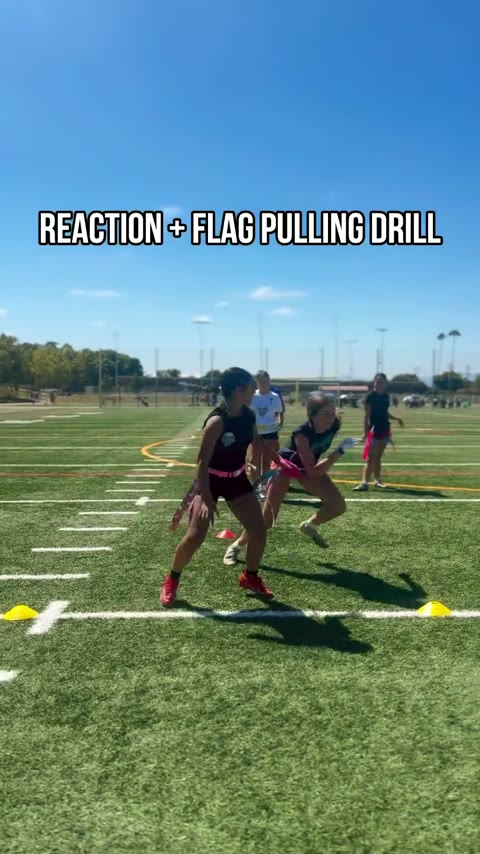
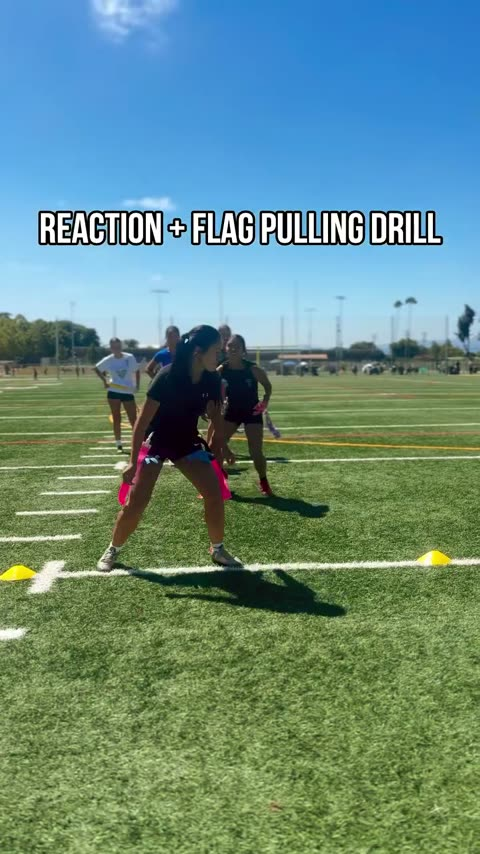
Fiche Flag pull : 4 images des meilleurs plans + note corrigée sur le contact du fanion
Les 3 images venaient du plan 8 (contre-jour, échelle moyenne) ; remplacées par 4 images
prises dans les plans 6, 7 et 3 (le plan clé où la main va au fanion).
La note affirmait « le plan coupe à l'arrivée de la main » : c'est faux, le zoom montre le
contact maintenu ~0,7 s avec le fanion tiré sous tension. Ce qui est vrai : le fanion ne se
détache jamais à l'image. La note dit maintenant exactement cela.
Bouton vidéo recalé sur le plan clé (4,8 s au lieu de 17,2 s).

diff --git a/seance-mardi.html b/seance-mardi.html
@@ -2158,26 +2158,33 @@
 
           <p class="ex-goal"><b>Objectif&nbsp;:</b> fermer l'espace <b>avec les pieds</b>, rester bas, et finir le flag sans se jeter ni s'arrêter.</p>
 
-          <div class="frames three">
+          <div class="frames">
                 <figure class="frame">
-                  <img src="thumbs/DdFXgBFvyGk_1.jpg" alt="Flag pull : position d'attente basse du défenseur, l'attaquant déclenche">
+                  <img src="thumbs/DdFXgBFvyGk_1.jpg" alt="Flag pull : position d'attente basse et large du défenseur">
                   <figcaption>
                     <b>Réaction</b>
-                    <span>Position d'attente basse et large. On réagit au premier pas de l'attaquant.</span>
+                    <span>Base large, hanches basses : on attend le premier pas de l'attaquant.</span>
                   </figcaption>
                 </figure>
                 <figure class="frame">
-                  <img src="thumbs/DdFXgBFvyGk_2.jpg" alt="Flag pull : fermeture de l'angle en fente latérale basse">
+                  <img src="thumbs/DdFXgBFvyGk_2.jpg" alt="Flag pull : fermeture de l'angle, bras tendu vers la hanche">
                   <figcaption>
                     <b>Fermeture de l'angle</b>
-                    <span>Fente latérale : le corps se place sur la trajectoire, bras encore replié.</span>
+                    <span>Le corps se place sur la trajectoire, le bras part vers la hanche.</span>
                   </figcaption>
                 </figure>
                 <figure class="frame">
-                  <img src="thumbs/DdFXgBFvyGk_3.jpg" alt="Flag pull : approche basse, bras tendu vers le fanion">
+                  <img src="thumbs/DdFXgBFvyGk_3.jpg" alt="Flag pull : approche basse, gant tendu vers le fanion jaune">
                   <figcaption>
                     <b>Main vers le flag</b>
-                    <span>Approche basse, bras tendu vers le fanion — pas vers le corps.</span>
+                    <span>Approche basse, gant tendu vers le fanion jaune qui pend à la hanche.</span>
+                  </figcaption>
+                </figure>
+                <figure class="frame">
+                  <img src="thumbs/DdFXgBFvyGk_4.jpg" alt="Flag pull : le gant arrive sur le fanion, tiré sous tension">
+                  <figcaption>
+                    <b>Gant sur le flag</b>
+                    <span>Le gant arrive sur le fanion : il est tiré sous tension, on ne s'arrête pas.</span>
                   </figcaption>
                 </figure>
           </div>
@@ -2191,11 +2198,11 @@
             </ul>
           </div>
 
-          <p class="note">Dans la vidéo, le plan <b>coupe à l'arrivée de la main</b> : on ne voit jamais le fanion se détacher. La finition du pull est donc à travailler à part.</p>
+          <p class="note">Ce que la vidéo montre&nbsp;: le gant qui part vers le fanion, <b>puis le contact</b> — le fanion est tiré sous tension pendant environ 0,7&nbsp;s. Ce qu'elle ne montre pas&nbsp;: <b>le fanion ne se détache jamais à l'image</b>. La finition du pull est donc à travailler à part.</p>
 
           <button class="clip" type="button" data-clip="def">
             <svg width="9" height="10" viewBox="0 0 10 12" aria-hidden="true"><path d="M0 0l10 6-10 6z" fill="currentColor"></path></svg>
-            Voir dans la vidéo <i>· 18 s</i>
+            Voir dans la vidéo <i>· 5 s</i>
           </button>
 
           <details class="ex-more">
@@ -2513,8 +2520,8 @@
     def: {
       src: "videos/DdFXgBFvyGk_flaglabperformance.mp4",
       poster: "thumbs/DdFXgBFvyGk_flaglabperformance.jpg",
-      start: 17.2,
-      caption: "Zone Flag pull — réaction, fermeture de l'angle, approche basse, main vers le fanion. Le plan coupe avant que le fanion ne se détache."
+      start: 4.8,
+      caption: "Zone Flag pull — le plan clé : approche basse, le gant part vers le fanion jaune, le contact, et la poursuite sans s'arrêter. On voit la tension du fanion ; sa séparation n'est jamais montrée."
     },
     appuis: {
       src: "videos/DcumOOqNKAi_issa_rantbro.mp4",

diff --git a/CHANGELOG.md b/CHANGELOG.md
@@ -172,3 +172,29 @@ résolution, image par image, avant de toucher à la fiche.
   de planche m'avait fait croire à « 2. CUT » : c'était un artefact de compression).
 - Aucun rusher dans la vidéo, et le QB tient bien deux ballons dans les mains à 4,80 s : le
   « 3-ball drill » du titre est littéral.
+
+## Fiche Flag pull : images reprises depuis le pack d'analyse
+
+Même méthode : planches 2 i/s, repérage des 8 plans réels, puis vérification des candidats en
+pleine résolution et **zoom sur la zone de contact** avant de toucher à la fiche.
+
+Les 3 images précédentes venaient du **plan 8** (17,0–19,8 s) — le plus faible : contre-jour
+relatif et échelle moyenne. Elles sont remplacées par 4 images prises dans les meilleurs plans :
+
+| Image | Plan | Moment |
+|---|---|---|
+| Réaction | 6 (11,7–14,8 s), **12,00 s** | base large, hanches basses, attente du premier pas |
+| Fermeture de l'angle | 7 (14,8–17,0 s), **16,20 s** | corps sur la trajectoire, bras qui part vers la hanche |
+| Main vers le flag | 3 (3,7–6,4 s), **5,40 s** | approche basse, gant tendu vers le fanion jaune |
+| Gant sur le flag | 3, **5,70 s** | le gant arrive sur le fanion, tiré sous tension |
+
+**Correction d'une affirmation fausse de la fiche.** La note disait : « le plan coupe à l'arrivée
+de la main ». C'est faux. Le zoom montre le gant qui part vers le fanion jaune (5,40 s), le gant
+qui arrive dessus (5,70 s) et le **contact maintenu environ 0,7 s** (jusqu'à la coupe à 6,37 s),
+le fanion visiblement tiré. En revanche, **aucune image ne montre le fanion se détacher** : c'est
+cette partie-là qui est à travailler à part. La note dit maintenant exactement cela.
+
+- Bouton vidéo recalé sur le plan clé : **4,8 s** au lieu de 17,2 s (bouton passé de · 18 s à · 5 s).
+- Grille passée de 3 à 4 images (`.frames`) pour montrer à la fois l'approche et la saisie.
+- Affiche de galerie `thumbs/DdFXgBFvyGk_flaglabperformance.jpg` : supprimée par erreur pendant
+  la génération, restaurée à l'identique depuis git (vérifié : identique à HEAD).
